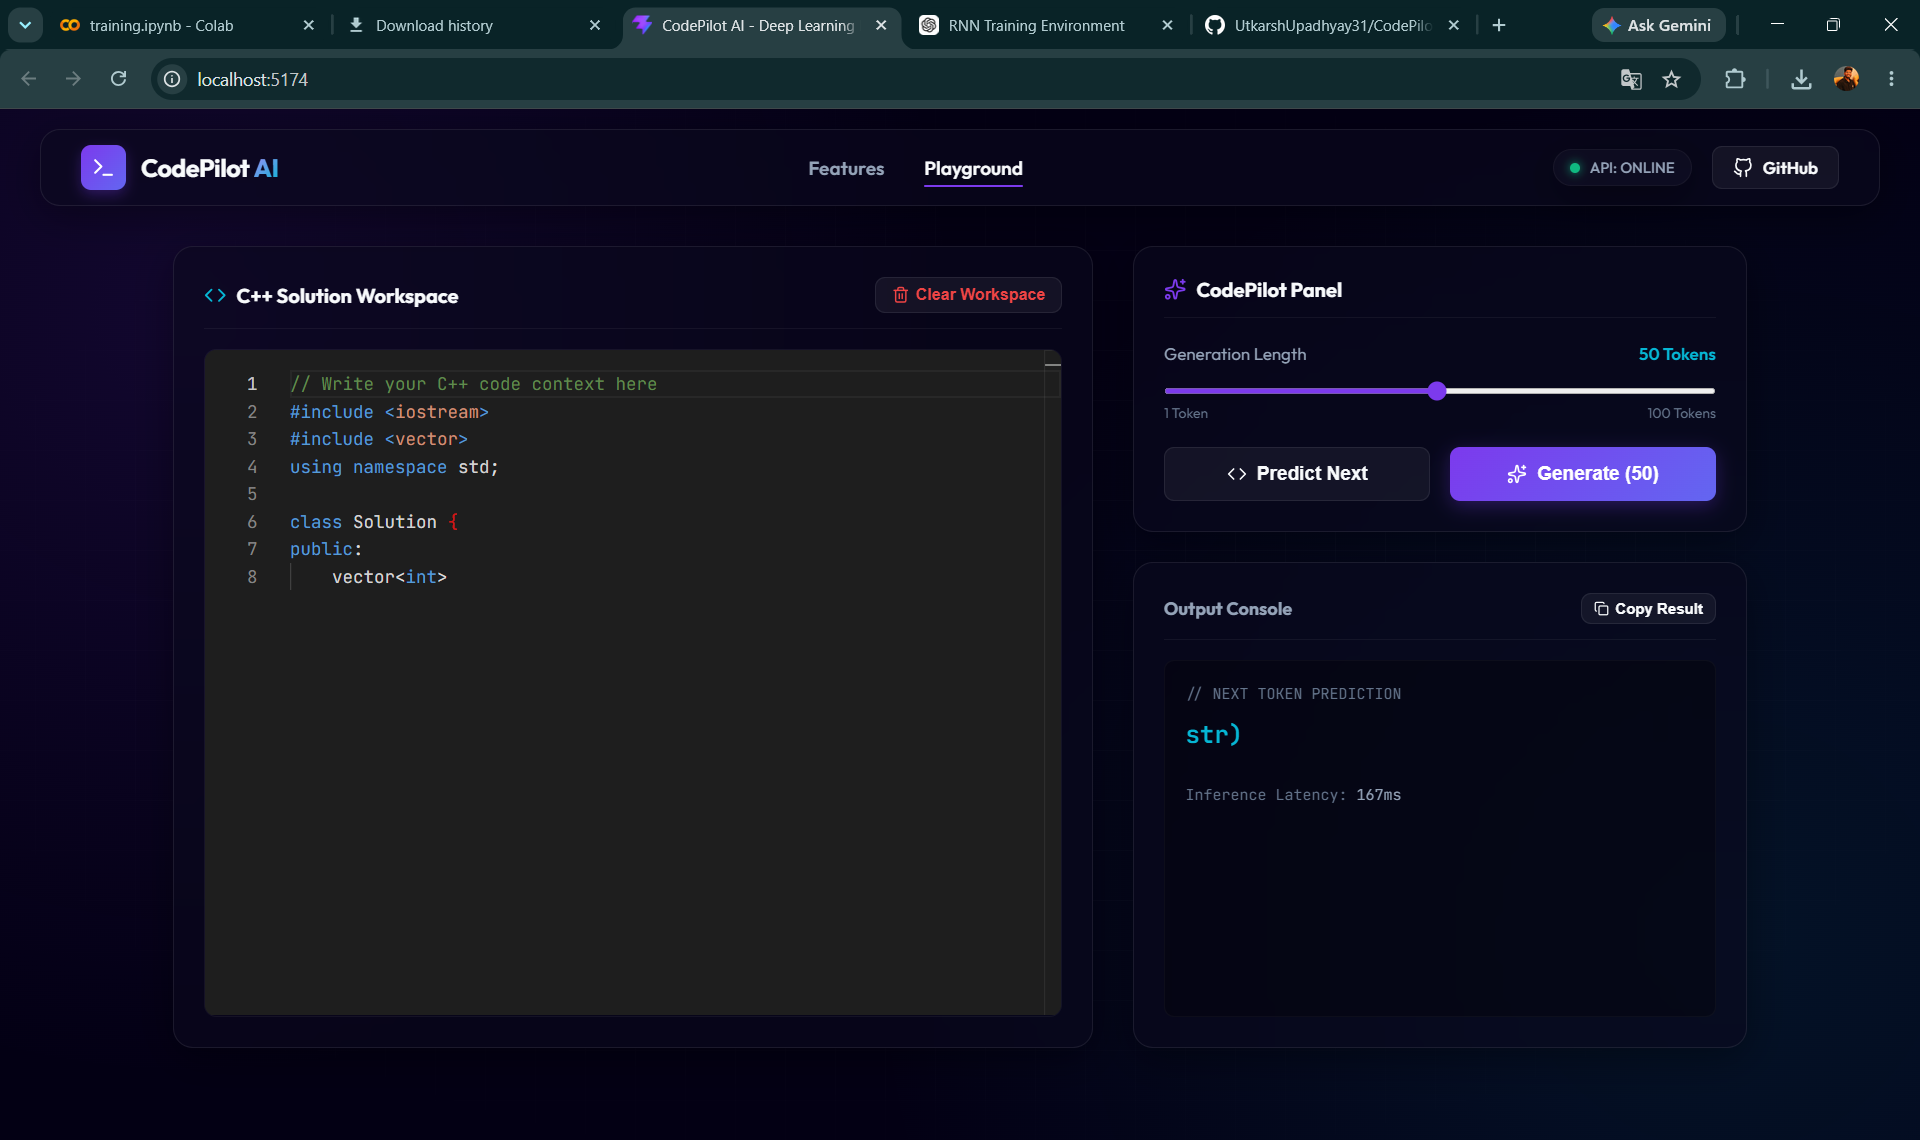
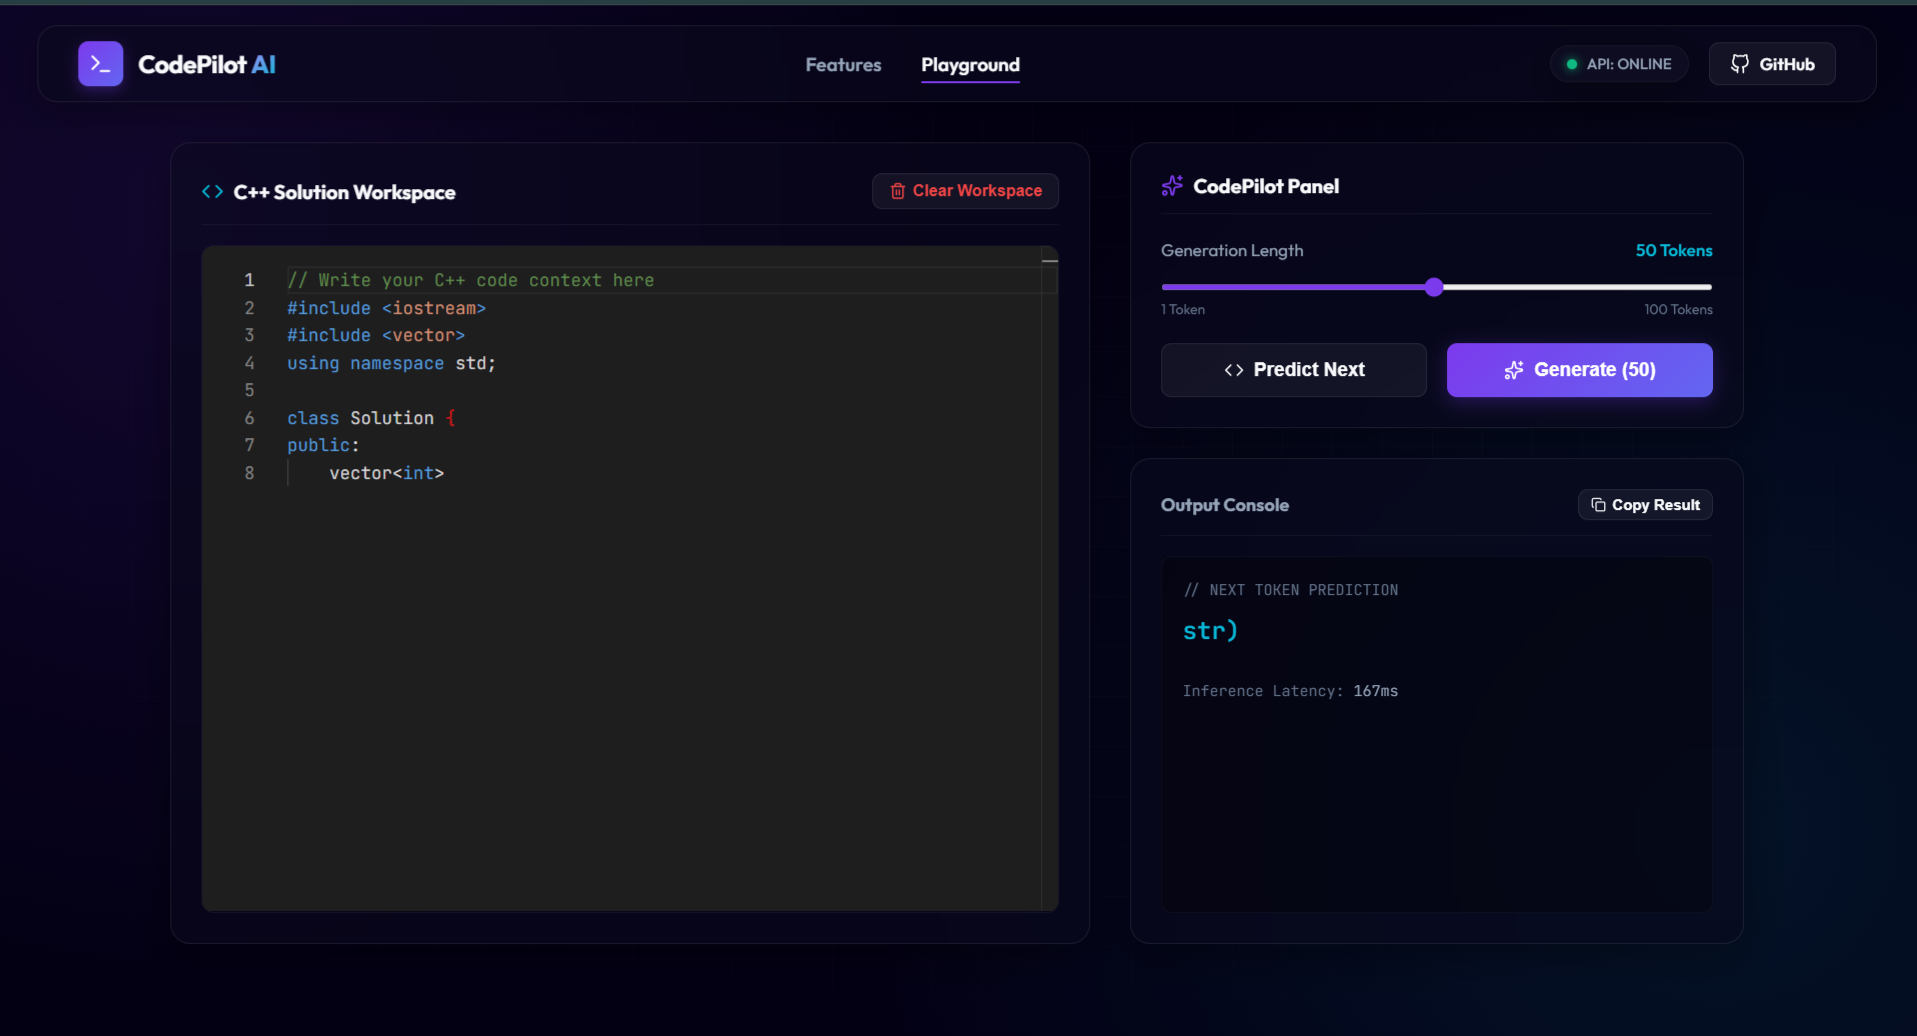
Added screenshots and model statistics to README

diff --git a/README.md b/README.md
@@ -2,6 +2,33 @@
 
 CodePilot AI is a production-grade, deep learning-powered C++ code autocomplete and code generation platform. The application is powered by a custom Gated Recurrent Unit (GRU) neural network model trained on over 1,500+ LeetCode C++ solutions, wrapped in a high-performance FastAPI server and interactive React/Vite web interface.
 
+## 📸 Project Preview
+
+### Landing Page
+
+![Landing Page](screenshot/landing_page.png)
+
+### Interactive Playground
+
+![Model Interface](screenshot/model_interface.png)
+
+### AI Prediction Demo
+
+![Prediction Demo](screenshot/prediction.png)
+
+---
+
+## 📊 Model Statistics
+
+| Metric              | Value   |
+| ------------------- | ------- |
+| Vocabulary Size     | 21,226  |
+| Training Sequences  | 140,611 |
+| Architecture        | GRU     |
+| Embedding Size      | 128     |
+| Max Sequence Length | 200     |
+| Validation Accuracy | 42.3%   |
+
 ---
 
 ## 🎨 Features
@@ -191,3 +218,24 @@ Deploy the resulting `dist/` directory to Vercel, Netlify, or AWS S3.
 1. **Transformer Transition**: Upgrade the sequence generation model to a decoder-only Transformer (like GPT-2 or Llama-based architecture) for cleaner context-understanding.
 2. **Keyboard Shortcut Autocomplete**: Implement inline ghost text suggestions directly inside Monaco Editor, triggered on typing rather than clicking buttons.
 3. **Advanced Sampling Options**: Support user sliders for temperature scaling and Nucleus (top-p) sampling values directly in the control panel.
+
+
+---
+
+## 👨💻 Author
+
+### Utkarsh Upadhyay
+
+Deep Learning • Competitive Programming • Full Stack Development
+
+GitHub: https://github.com/UtkarshUpadhyay31
+
+---
+
+## ⭐ Support
+
+If you found this project useful, consider giving the repository a star.
+
+⭐ Star this repository if you like the project.
+
+---